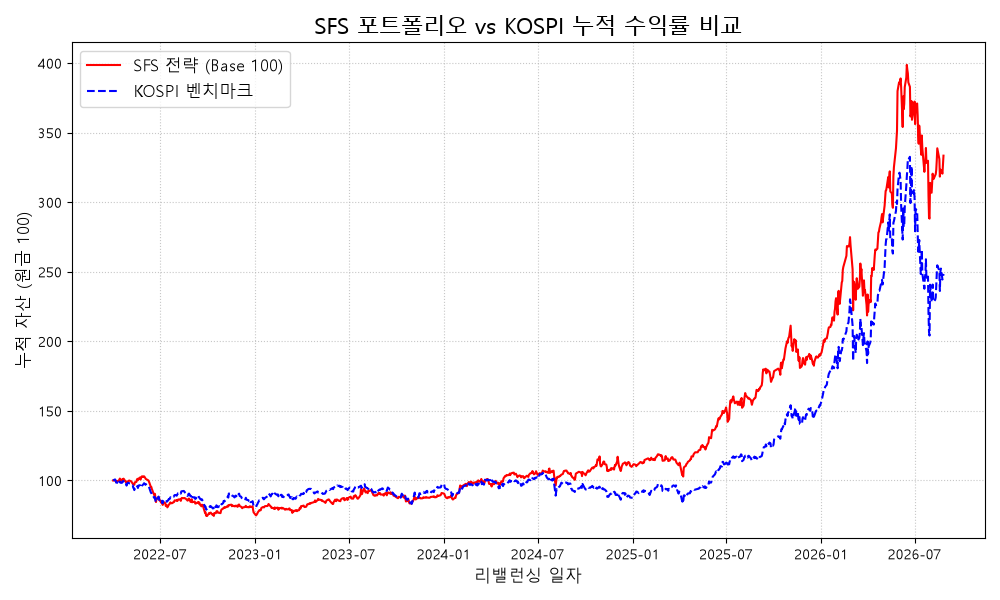
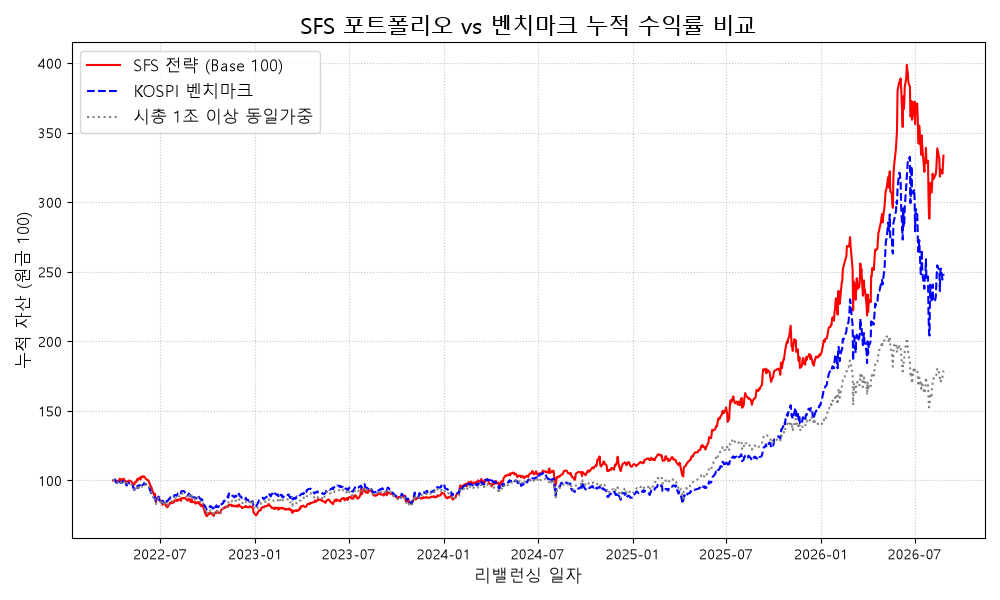
README: 위험지표 추가 및 고려아연 편입 경로 정정
- 연도별 표의 단순 차이 열을 추적오차·정보비율(vs KOSPI)로 교체하고
  전체 기간 베타(0.74) 추가
- 메인 백테스트 차트에 시총 1조 이상 동일가중 벤치마크 추가
- 고려아연은 주가 모멘텀이 아니라 OP 가속도(상위 17%)와 퀄리티로
  편입된 것으로 확인돼 해당 서술을 수정. 삼성전기·LG이노텍은 매수
  시점에 이미 강한 추세가 있어 모멘텀이 설계대로 작동한 사례로 구분
- 팩터 비중 민감도의 적용 범위(섹션·지표 가중치는 컷오프에 영향)를
  도입부에 명시

diff --git a/README.md b/README.md
@@ -152,14 +152,16 @@ DART 전자공시에서 재무 데이터를, KRX에서 시세와 상장주식수
 
 누적 수익률만 보면 초과수익이 어디서 발생했는지 알 수 없어 연도별로 분해했습니다. **KOSPI는 시가총액 가중 지수인데 SFS는 20종목 동일가중**이라, 비교가 가중 방식 차이에서 오는 것인지 종목 선택에서 오는 것인지 구분하기 위해 **같은 유니버스(KOSPI 시총 1조 이상, 매 리밸런싱 시점 195~244종목)를 동일가중으로 보유하는 벤치마크**를 함께 계산했습니다. 아래에서는 이를 **시총 1조 이상 동일가중**이라고 부릅니다.
 
-| 연도          | SFS          | KOSPI    | 시총 1조 이상 동일가중 | SFS − KOSPI  | SFS − 동일가중 |
-| ------------- | ------------ | -------- | ----------------- | ------------ | -------------- |
-| 2022 (4~12월) | -22.90%      | -18.38%  | -19.30%           | -4.53%p      | -3.61%p        |
-| 2023          | +18.04%      | +18.73%  | +16.34%           | -0.69%p      | +1.70%p        |
-| 2024          | **+20.64%**  | -9.63%   | -3.54%            | **+30.27%p** | **+24.17%p**   |
-| 2025          | +72.84%      | +75.63%  | +55.44%           | -2.79%p      | +17.40%p       |
-| 2026 (1~8월)  | **+75.74%**  | +61.56%  | +27.08%           | **+14.19%p** | **+48.67%p**   |
-| **누적**      | **+233.48%** | +148.49% | +78.91%           | +84.99%p     | +154.57%p      |
+| 연도          | SFS          | KOSPI    | 시총 1조 이상 동일가중 | 추적오차 (vs KOSPI) | 정보비율 (vs KOSPI) |
+| ------------- | ------------ | -------- | ---------------------- | ------------------- | ------------------- |
+| 2022 (4~12월) | -22.90%      | -18.38%  | -19.30%                | 11.20%   | -0.40    |
+| 2023          | +18.04%      | +18.73%  | +16.34%                | 14.64%   | -0.05    |
+| 2024          | **+20.64%**  | -9.63%   | -3.54%                 | 15.94%   | **1.90** |
+| 2025          | +72.84%      | +75.63%  | +55.44%                | 15.59%   | -0.18    |
+| 2026 (1~8월)  | **+75.74%**  | +61.56%  | +27.08%                | 27.90%   | 0.51     |
+| **누적**      | **+233.48%** | +148.49% | +78.91%                | 17.26%   | 0.51     |
+
+추적오차는 SFS와 KOSPI의 일간 수익률 차이를 연율화한 값으로, 지수에서 얼마나 벗어나 움직였는지를 뜻합니다. 정보비율은 초과수익을 그 추적오차로 나눈 값이라 **감수한 이탈 위험 대비 얼마를 벌었는지**를 보여줍니다(누적 행은 CAGR 차이 기준). 2024년만 1.90으로 뚜렷하게 높고 나머지 해는 0 부근이거나 음수인데, 이는 초과수익이 꾸준히 쌓인 것이 아니라 특정 해에 몰렸다는 앞의 관찰과 같은 이야기입니다. 2026년 추적오차가 27.90%까지 뛴 것은 시장 자체의 변동성이 커진 영향입니다. 한편 전체 기간 SFS의 베타는 **0.74**로, 지수보다 덜 민감하게 움직이면서도 더 높은 수익을 냈습니다. 앞서 본 최대낙폭(-27.72% vs KOSPI -38.63%)과 같은 방향의 결과입니다.
 
 ### 차이의 원인 분석
 
@@ -169,7 +171,7 @@ DART 전자공시에서 재무 데이터를, KRX에서 시세와 상장주식수
 
 **② 종목 선택 효과 (팩터의 기여)** — 나머지는 종목 선택에서 왔습니다. 동일가중 벤치마크 대비 초과분(2024년 +24.17%p, 2025년 +17.40%p, 2026년 +48.67%p)은 가중 방식으로 설명되지 않는 부분입니다. 특히 **2025년은 지수를 2.79%p 밑돌았지만 동일가중 벤치마크는 17.40%p 앞섰습니다.** 지수 상승이 초대형주 주도였기 때문에(KOSPI +75.63% vs 동일가중 +55.44%) 지수 대비로는 뒤처졌을 뿐, 종목 선택 자체는 유효했다고 해석됩니다.
 
-**③ 소수 종목 집중 (가장 큰 한계)** — 성과가 몇 개 종목에 크게 의존합니다.
+**③ 성과는 소수 종목에서 나왔고, 그중 상당수는 설계대로 걸러진 종목입니다.**
 
 | 구간         | 종목             | 개별 수익률 | 포트폴리오 기여 | 구간 수익률 대비   |
 | ------------ | ---------------- | ----------- | --------------- | ------------------ |
@@ -178,7 +180,21 @@ DART 전자공시에서 재무 데이터를, KRX에서 시세와 상장주식수
 | 2026-04 ~ 06 | LG이노텍         | +346.1%     | +17.30%p        | 구간 수익률의 27%  |
 | 2023-06 ~ 09 | 포스코인터내셔널 | +162.1%     | +8.11%p         | 구간 수익률의 100% |
 
-2024년 최대 기여 종목인 고려아연의 상승은 경영권 분쟁이라는 개별 이벤트에서 비롯된 것으로, 이 전략의 팩터가 포착한 신호라고 보기 어렵습니다. 2026년에는 삼성전기·LG이노텍이 같은 시점에 편입됐는데 둘 다 전자부품 업종으로, 업종 분산이 이뤄지지 않은 상태에서 해당 업종이 급등한 결과입니다.
+이 종목들이 **어떻게 편입됐는지**를 매수 직전 주가 흐름으로 확인하면 두 유형으로 갈립니다.
+
+| 종목     | 매수 전 3M | 매수 전 6M | 매수 전 12M |
+| -------- | ---------- | ---------- | ----------- |
+| 삼성전기 | +74.3%     | +130.0%    | +245.4%     |
+| LG이노텍 | +26.6%     | +82.0%     | +116.0%     |
+| 고려아연 | +2.8%      | +21.1%     | +4.4%       |
+
+삼성전기와 LG이노텍은 매수 시점에 이미 강한 상승 추세에 있었고, 모멘텀 팩터가 이를 골라낸 뒤 추세가 이어졌습니다. **펀더멘털만으로는 상위권에 오르지 않았을 종목을 모멘텀 단계에서 잡아낸 사례**로, 순차 스크리닝을 설계한 의도가 그대로 작동한 경우입니다.
+
+고려아연은 경로가 다릅니다. 매수 시점(2024-09-02)의 섹션 점수를 보면 **주가 모멘텀은 -0.305로 최종 생존 48종목 중 하위권**이었고(상위 20종목 평균 +0.481), 대신 **OP 가속도가 +0.516으로 상위 17%**, 퀄리티가 상위 19%였습니다. 즉 주가 추세가 아니라 **영업이익 증가세가 가속되던 점**과 퀄리티가 편입을 끌어낸 종목이며, 최종 순위도 48종목 중 15위로 경계선에 가까웠습니다.
+
+이 점에서 "실적이 개선 중인 우량주"를 골라낸 것까지는 팩터가 한 일입니다. 다만 매수 후 두 달 만에 주가가 두 배가 된 것(54.2만 원 → 99.8만 원)은 경영권 분쟁이라는 외생 이벤트가 만든 결과로, **+160%라는 상승 폭까지 팩터의 예측력으로 돌리기는 어렵습니다.** 2024년 성과를 해석할 때 유의해야 할 부분입니다.
+
+한편 삼성전기와 LG이노텍은 같은 시점에 함께 편입된 **전자부품 업종**입니다. 모멘텀이 업종 단위로 형성되는 국면에서는 상위 20종목이 한 업종에 쏠릴 수 있고, 이번에는 그 방향이 맞았지만 반대 방향이면 손실도 같이 커집니다. 현재 파이프라인에는 업종 분산 제약이 없습니다.
 
 **④ 승률은 높지 않습니다** — 전체 360건의 종목-구간 중 상승한 것은 184건(51.1%)이고, 18개 리밸런싱 구간 중 플러스는 12개입니다. 즉 **맞히는 비율이 아니라 크게 오르는 소수 종목이 성과를 만드는 구조**이고, 이는 모멘텀 전략의 전형적 수익 분포(양의 왜도)입니다. 반대로 하락장이었던 2022년에는 동일가중 벤치마크보다도 3.61%p 더 하락했는데, 모멘텀 팩터가 하락 국면에서 역효과를 낸 것으로 보입니다.
 
@@ -187,6 +203,8 @@ DART 전자공시에서 재무 데이터를, KRX에서 시세와 상장주식수
 ### 팩터 비중 민감도 분석
 
 펀더멘털과 모멘텀의 비중(`WEIGHTS['Factors']`)을 1:9부터 9:1까지 바꿔가며 같은 기간을 재평가했습니다. 이 비중은 **step4·step6의 컷오프에는 영향을 주지 않고 step7 최종 랭킹에만 작용**하므로, 생존 종목군은 모든 설정에서 동일하고 그 안에서 뽑는 20종목만 달라집니다.
+
+컷오프에 영향이 없는 것은 **팩터 비중뿐**이라는 점에 유의해야 합니다. 섹션 가중치(퀄리티:밸류, 주가:OP)와 지표 가중치는 step4·step6에서 컷오프 점수를 직접 만들기 때문에, 이들을 바꾸면 **생존 종목 자체가 달라집니다.** 따라서 그쪽 민감도를 보려면 조합마다 파이프라인을 처음부터 다시 돌려야 하고, 아래처럼 한 번의 실행 결과를 재가중하는 방식은 쓸 수 없습니다. 이 분석의 범위는 팩터 비중에 한정됩니다.
 
 ![팩터 비중별 누적 수익률 비교](sfs_factor_ratio_comparison.png)
 
@@ -220,7 +238,7 @@ _그래프는 가시성을 위해 양 끝(1:9, 9:1)과 기본 설정(5:5)만 표
 
 **③ 차이가 제한적인 이유는 구조 때문입니다.** 팩터 비중이 컷오프에 관여하지 않으므로 모든 설정이 같은 생존군(유니버스의 약 25%)에서 종목을 고릅니다. 실제로 5:5 포트폴리오와 비교하면 1:9는 평균 15.8종목, 9:1은 13.4종목이 겹칩니다. 20종목 중 4~7종목만 다른 셈입니다.
 
-단 이는 **팩터 비중에만 해당하는 성질**입니다. 섹션 가중치(퀄리티:밸류, 주가:OP)나 지표 가중치는 step4·step6에서 컷오프 점수를 만드는 데 직접 쓰이므로, 이들을 바꾸면 **생존 종목 자체가 달라집니다.** 따라서 그쪽 민감도를 보려면 조합마다 파이프라인을 처음부터 다시 돌려야 하며, 위와 같이 한 번의 실행 결과를 재가중하는 방식은 쓸 수 없습니다.
+앞서 적었듯 이는 팩터 비중에만 해당하며, 섹션·지표 가중치를 바꾸면 생존 종목 자체가 달라집니다.
 
 **④ 다른 것은 업종 구성입니다.** 펀더멘털 비중이 커질수록 금융기업 편입이 늘어납니다(1:9에서 평균 5.9종목 → 9:1에서 9.0종목). 금융주가 저PBR·고배당 특성상 밸류와 주주수익률에서 높은 점수를 받기 때문입니다. 이 구성 차이가 국면별 우열을 가릅니다. 2023년에는 펀더멘털 편향(7:3 +26.23%)이 가장 좋았지만, 전자부품이 급등한 2026년에는 같은 조합이 +31.24%에 그쳐 5:5(+75.74%)에 크게 뒤집니다.
 
